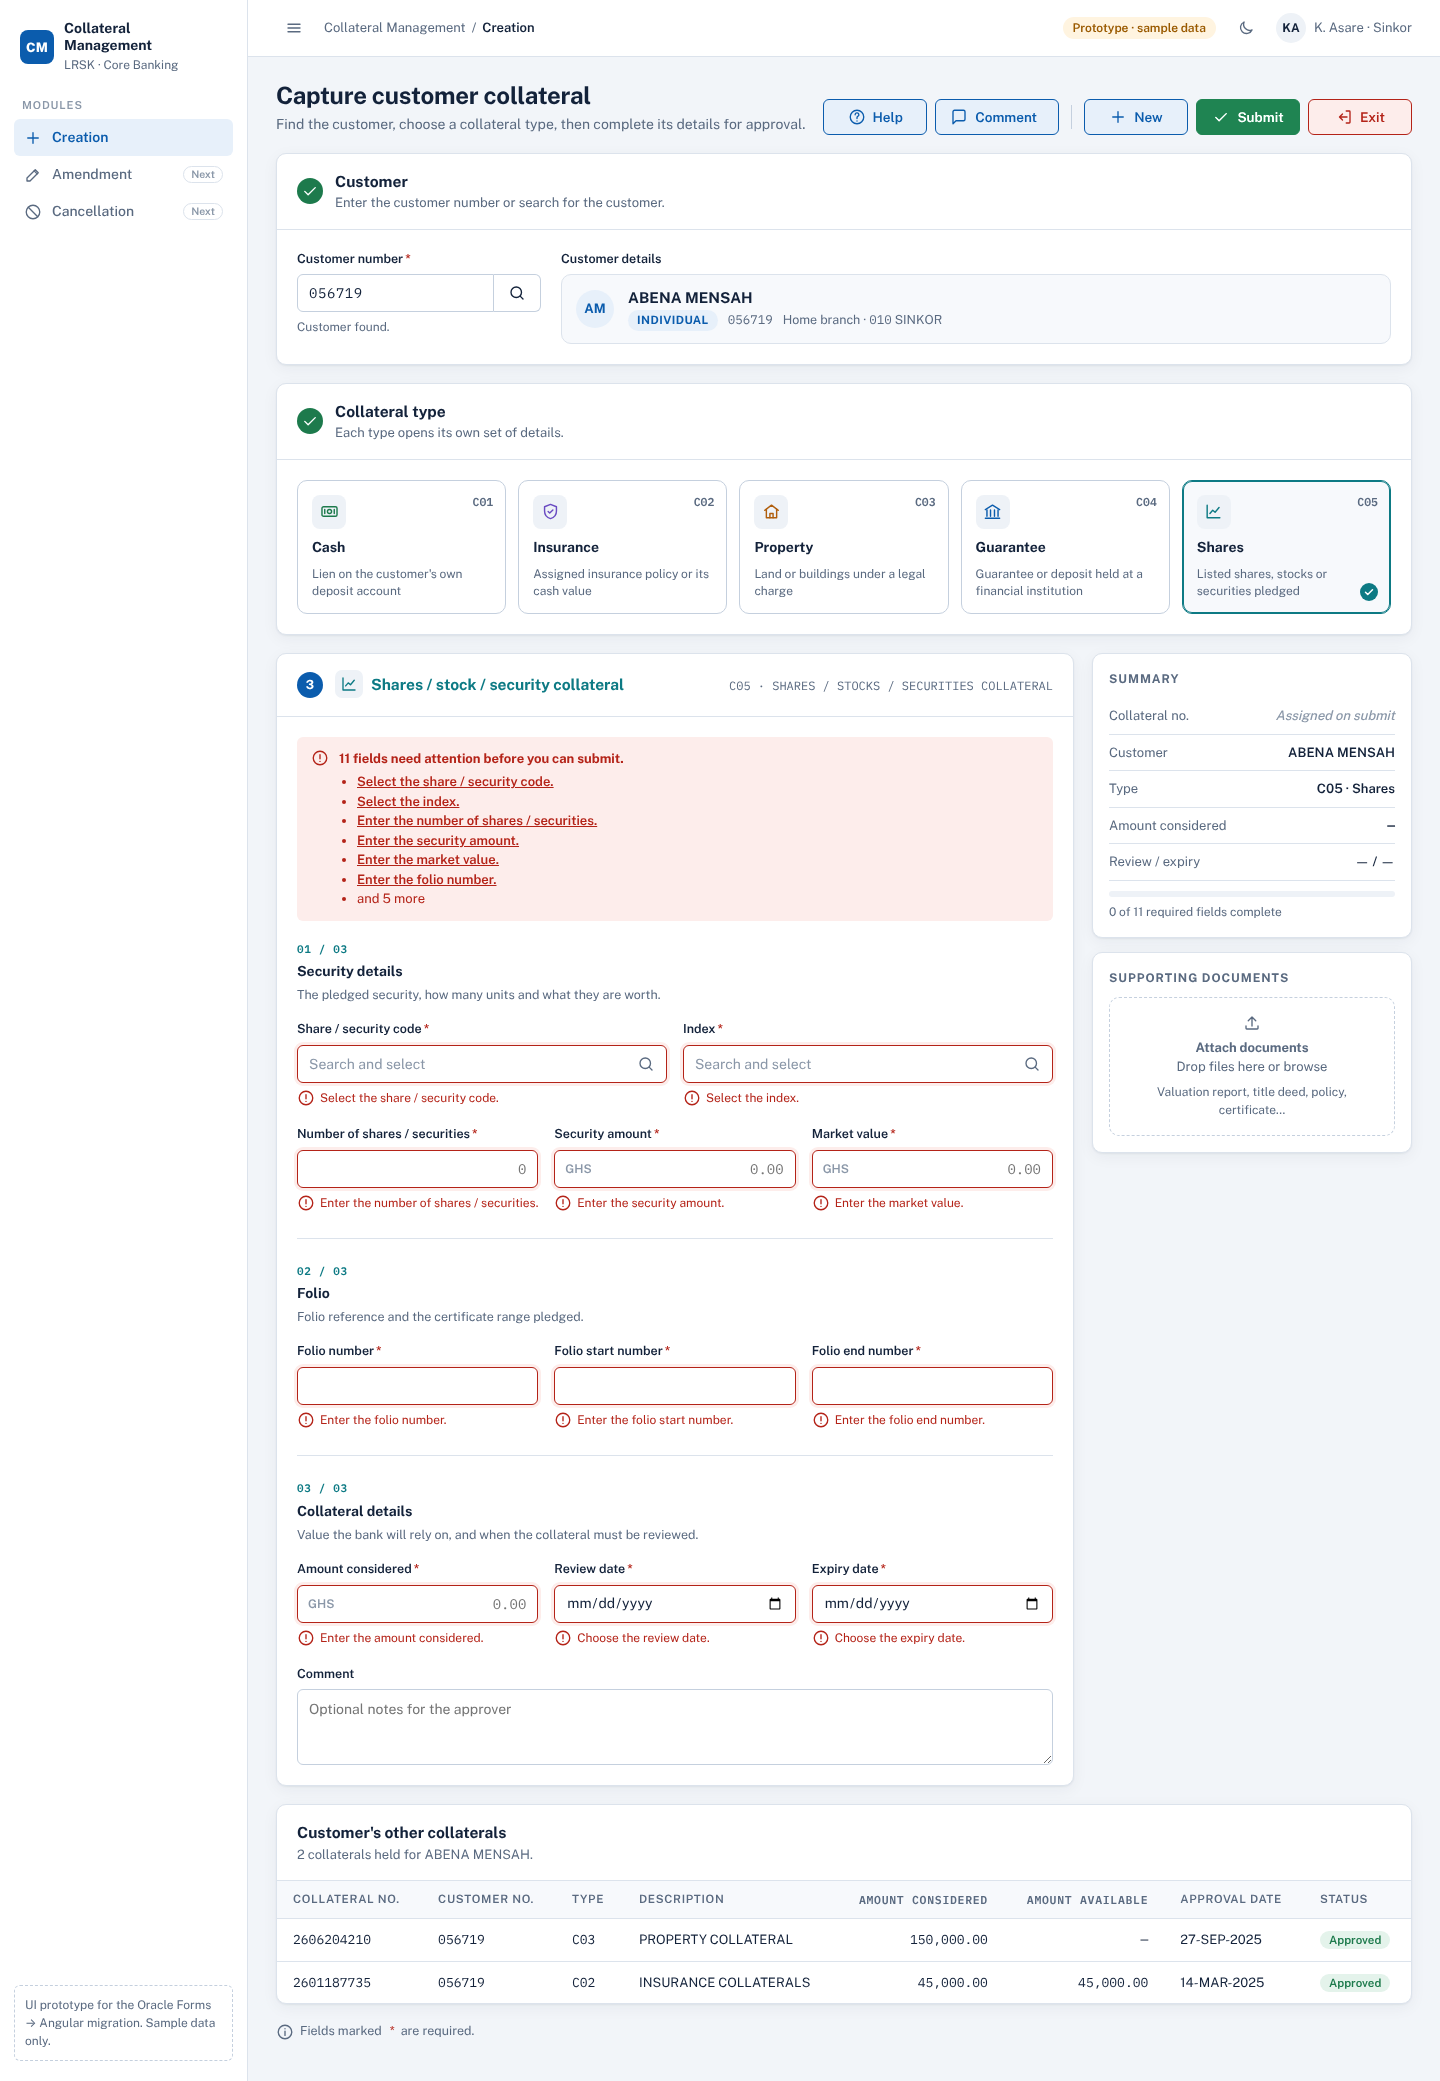
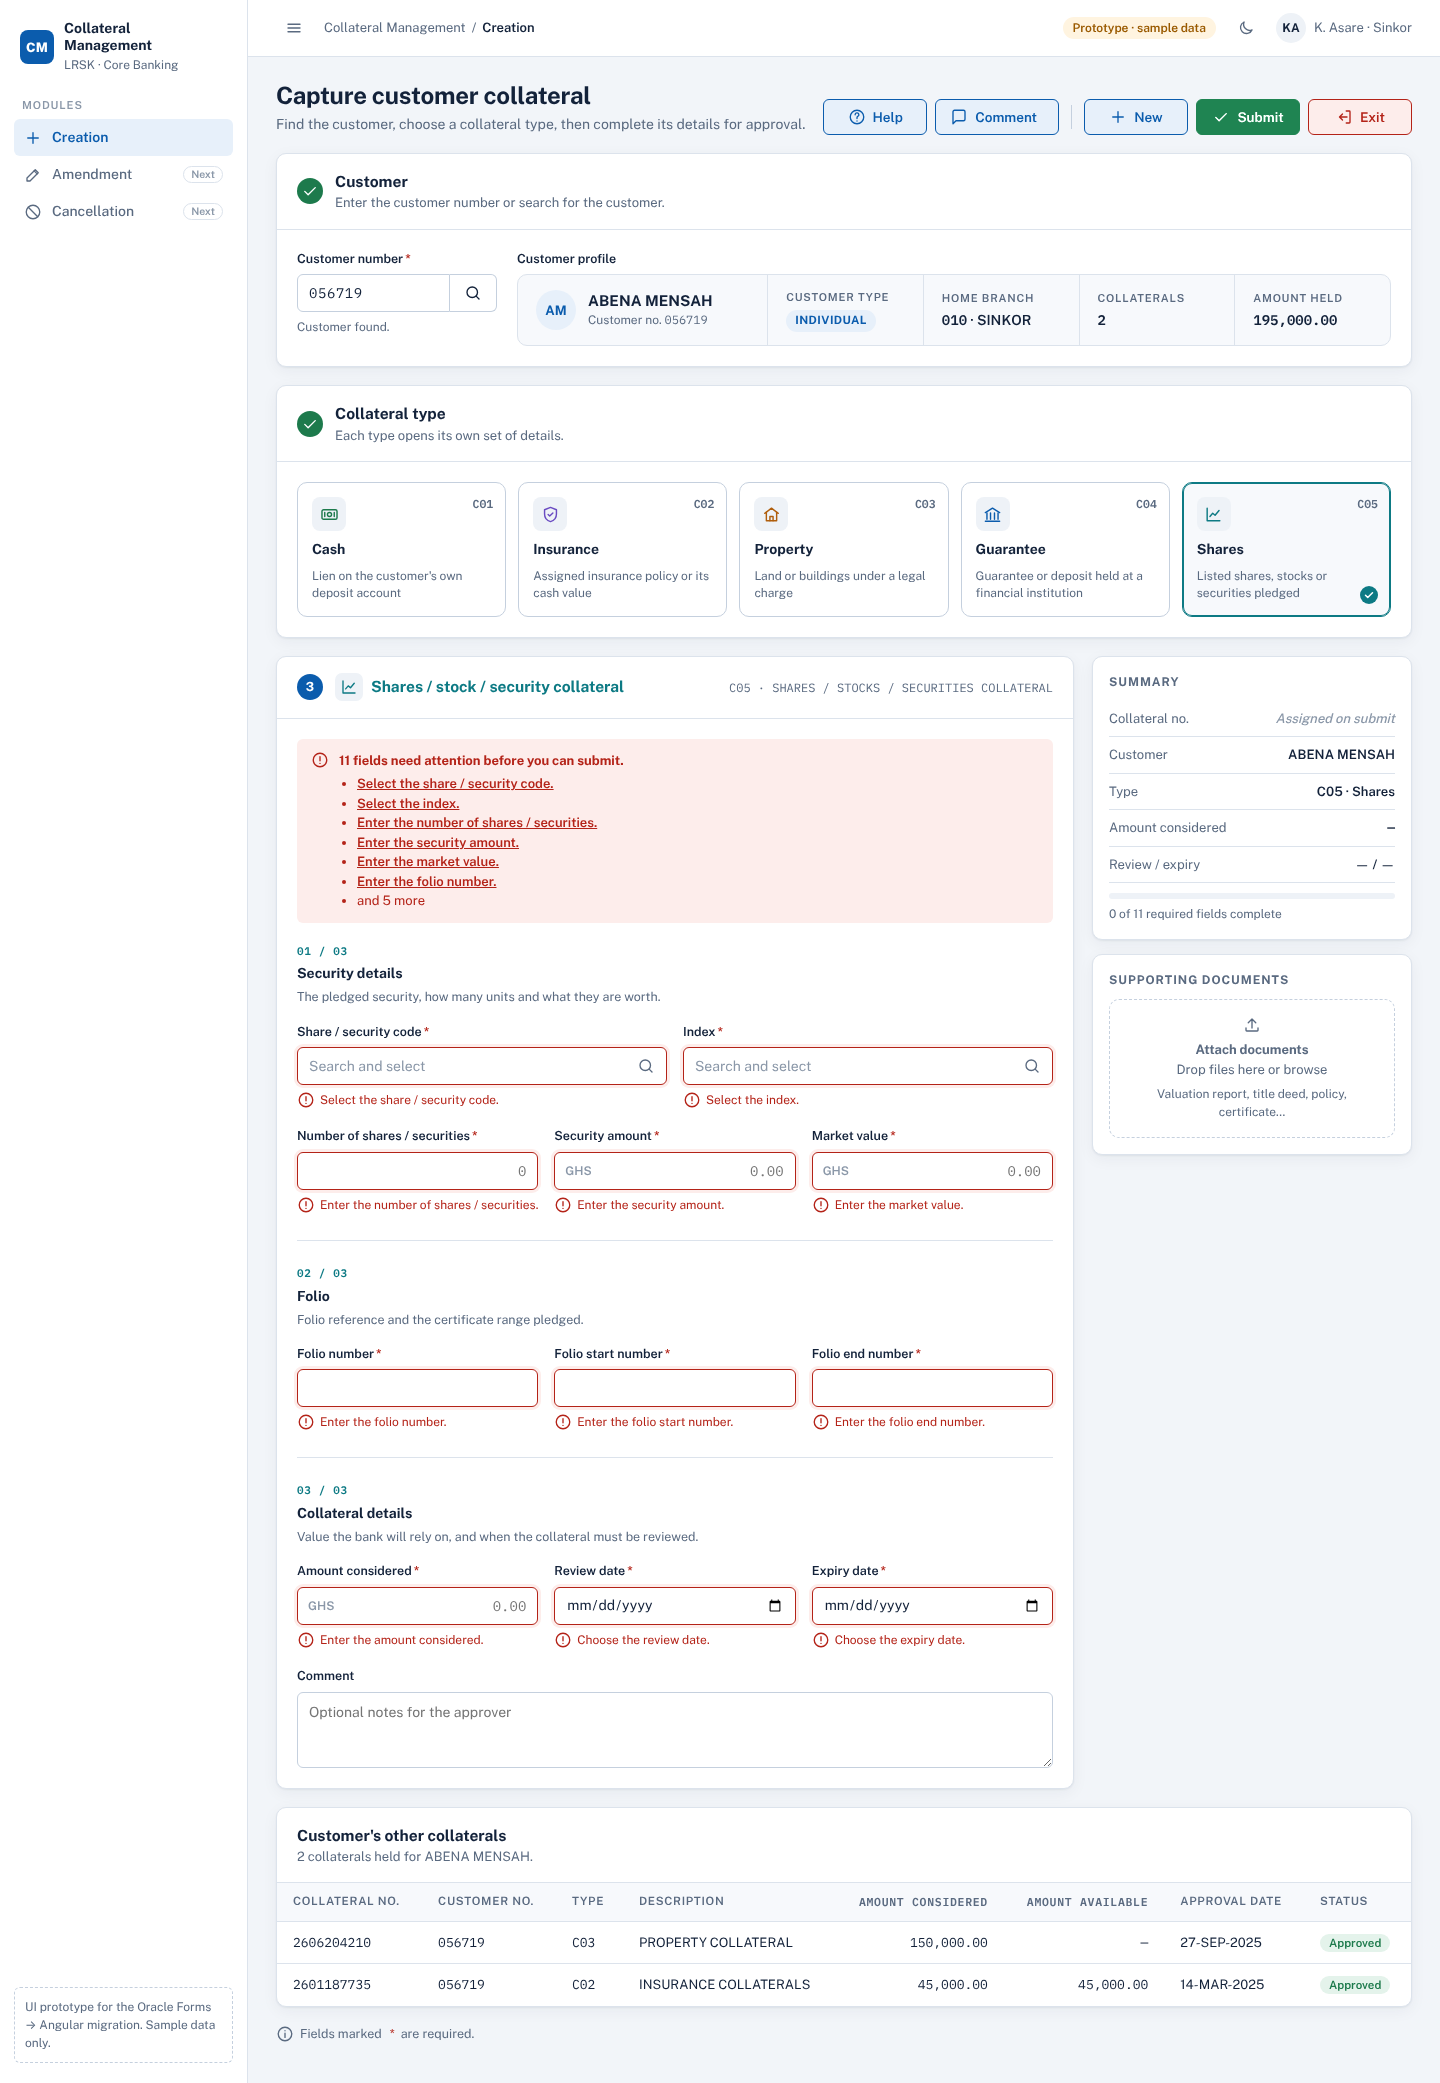
Replace customer card with a full-width customer profile strip
Name and number, customer type, home branch, collaterals held and total
amount held spread across the row instead of bunched on the left.

Claude-Session: https://claude.ai/code/session_011ztbXXXbWQFsQty3k2T7VW

diff --git a/design/creation/index.html b/design/creation/index.html
@@ -161,7 +161,7 @@ textarea.input{height:auto;min-height:76px;padding:9px 11px;resize:vertical}
 .section-title{font-size:14px;font-weight:700;color:var(--fg);margin:0}
 
 /* Step 1: customer */
-.cust-row{display:grid;grid-template-columns:auto minmax(0,1fr);gap:20px;align-items:start}
+.cust-row{display:grid;grid-template-columns:200px minmax(0,1fr);gap:20px;align-items:start}
 .search{display:flex;gap:0}
 .search .input{border-top-right-radius:0;border-bottom-right-radius:0;font-family:var(--font-mono);letter-spacing:.04em}
 .search .btn{border-top-left-radius:0;border-bottom-left-radius:0;border-left:0;height:38px}
@@ -170,6 +170,20 @@ textarea.input{height:auto;min-height:76px;padding:9px 11px;resize:vertical}
 .cust-card .nm{font-weight:700;font-size:15px}
 .cust-card .meta{color:var(--muted);font-size:12.5px;display:flex;gap:10px;flex-wrap:wrap}
 .cust-card.empty{color:var(--faint);border-style:dashed;background:transparent}
+/* Customer profile strip: identity, then evenly spread facts separated by dividers */
+.profile{display:grid;grid-template-columns:minmax(220px,1.6fr) repeat(4,minmax(0,1fr));align-items:stretch;border:1px solid var(--line);border-radius:var(--r-md);background:var(--surface-2);min-height:72px}
+.profile > div{padding:12px 18px;display:flex;flex-direction:column;justify-content:center;gap:4px;min-width:0}
+.profile > div + div{border-left:1px solid var(--line)}
+.profile .who{flex-direction:row;align-items:center;justify-content:flex-start;gap:12px}
+.profile .who .avatar{width:40px;height:40px;font-size:13px;background:var(--primary-soft);color:var(--primary);flex:none}
+.profile .nm{font-weight:700;font-size:15px;line-height:1.25;overflow-wrap:anywhere}
+.profile .sub{font-size:12px;color:var(--muted)}
+.profile .k{white-space:nowrap;font-size:11px;text-transform:uppercase;letter-spacing:.07em;font-weight:600;color:var(--muted)}
+.profile .v{font-weight:600;font-size:14px;white-space:nowrap;overflow:hidden;text-overflow:ellipsis}
+.profile .v.num{font-family:var(--font-mono);font-variant-numeric:tabular-nums}
+.profile.empty{border-style:dashed;background:transparent}
+.profile.empty .v,.profile.empty .nm{color:var(--faint);font-weight:500}
+@media (max-width:1100px){.profile{grid-template-columns:repeat(2,minmax(0,1fr))}.profile .who{grid-column:1/-1}.profile > div + div{border-left:0;border-top:1px solid var(--line)}.profile > div:nth-child(odd):not(.who){border-left:1px solid var(--line)}}
 .badge{display:inline-flex;align-items:center;gap:5px;font-size:11.5px;font-weight:700;letter-spacing:.04em;text-transform:uppercase;border-radius:99px;padding:2px 9px;background:var(--primary-soft);color:var(--primary)}
 .badge.corp{background:var(--warn-soft);color:var(--warn)}
 .skeleton{background:linear-gradient(90deg,var(--sunken),var(--surface-2),var(--sunken));background-size:200% 100%;animation:sh 1.1s infinite;border-radius:4px;height:12px}
@@ -359,7 +373,7 @@ tr.new td{background:var(--primary-soft)}
               <div class="hint" id="custHint" style="max-width:220px">Press Enter to fetch the customer.</div>
             </div>
             <div class="field">
-              <span class="lbl">Customer details</span>
+              <span class="lbl">Customer profile</span>
               <div id="custCard"></div>
             </div>
           </div>
@@ -535,10 +549,17 @@ function renderCustomer(){
   if(S.custError){hint.className="err";hint.innerHTML=icon("alert")+esc(S.custError)}
   else if(S.showErrors&&!c){hint.className="err";hint.innerHTML=icon("alert")+"Enter a customer number to continue."}
   else{hint.className="hint";hint.textContent=c?"Customer found.":"Press Enter to fetch the customer."}
-  if(S.loading){card.innerHTML=`<div class="cust-card"><div class="avatar"></div><div style="flex:1;display:grid;gap:8px"><div class="skeleton" style="width:55%"></div><div class="skeleton" style="width:35%"></div></div></div>`;return}
-  if(!c){card.innerHTML=`<div class="cust-card empty">${icon("search")}Customer name and type appear here once the number is found.</div>`;return}
+  const cell=(k,v,cls="")=>`<div><span class="k">${k}</span><span class="v ${cls}">${v}</span></div>`;
+  if(S.loading){const sk=`<div class="skeleton" style="width:70%"></div>`;card.innerHTML=`<div class="profile"><div class="who"><div class="avatar"></div><div style="flex:1;display:grid;gap:8px">${sk}<div class="skeleton" style="width:40%"></div></div></div>${[1,2,3,4].map(()=>`<div style="gap:8px"><div class="skeleton" style="width:50%;height:9px"></div>${sk}</div>`).join("")}</div>`;return}
+  if(!c){card.innerHTML=`<div class="profile empty"><div class="who"><div class="avatar">${icon("search")}</div><div><div class="nm">No customer selected</div><div class="sub">Enter a customer number to load the profile</div></div></div>${cell("Customer type","—")}${cell("Home branch","—")}${cell("Collaterals","—")}${cell("Amount held","—")}</div>`;return}
   const ini=c.name.split(" ").slice(0,2).map(w=>w[0]).join("");
-  card.innerHTML=`<div class="cust-card"><div class="avatar">${esc(ini)}</div><div style="min-width:0"><div class="nm">${esc(c.name)}</div><div class="meta"><span class="badge ${c.type==="CORPORATE"?"corp":""}">${esc(c.type)}</span><span class="mono">${esc(c.code)}</span><span>Home branch · <span class="mono">${esc(c.brCode)}</span> ${esc(c.branch)}</span></div></div></div>`;
+  const held=[...S.newRows,...(OTHER[c.code]||[])];
+  const total=held.reduce((a,r)=>a+(r.amt||0),0);
+  card.innerHTML=`<div class="profile"><div class="who"><div class="avatar">${esc(ini)}</div><div style="min-width:0"><div class="nm">${esc(c.name)}</div><div class="sub">Customer no. <span class="mono">${esc(c.code)}</span></div></div></div>
+    ${cell("Customer type",`<span class="badge ${c.type==="CORPORATE"?"corp":""}">${esc(c.type)}</span>`)}
+    ${cell("Home branch",`<span class="mono">${esc(c.brCode)}</span> · ${esc(c.branch)}`)}
+    ${cell("Collaterals",String(held.length),"num")}
+    ${cell("Amount held",held.length?fmt(total):"—","num")}</div>`;
 }
 function fetchCustomer(code){
   code=String(code||"").trim();

diff --git a/docs/creation/collateral-creation.md b/docs/creation/collateral-creation.md
@@ -63,7 +63,7 @@ A draft flowchart is in [`flowchart.md`](flowchart.md).
 |---|---|---|
 | Navigation | One window per screen | App shell with a module sidebar: **Creation** now, **Amendment** and **Cancellation** next |
 | Toolbar | Help, Comment, New, Submit, Exit buttons | The **standard action bar** used on every module screen, in the same order as Forms: Help, Comment, New (blue), Submit (green), Exit (red). Help and Comment open side panels. See [design system](../design-system.md#standard-action-bar). |
-| Customer | Number + LOV button, read-only name and type | **Step 1** card: number field with search, Enter to fetch, customer card with name, type badge and home branch |
+| Customer | Number + LOV button, read-only name and type | **Step 1** card: number field with search (Enter to fetch), next to a **customer profile strip** across the row: name and number, customer type, home branch (`010 · SINKOR`), number of collaterals held and total amount held |
 | Collateral type | Code + LOV button + description | **Step 2** card: five selectable tiles that show code, name and a one-line description. Arrow keys move between tiles. |
 | Dynamic area | Stacked canvas for the selected type | **Step 3** card built from the type's form definition, grouped into sections |
 | Collateral No | Read-only green field | Shown in the **Summary** panel as "Assigned on submit", then in the confirmation dialog |
